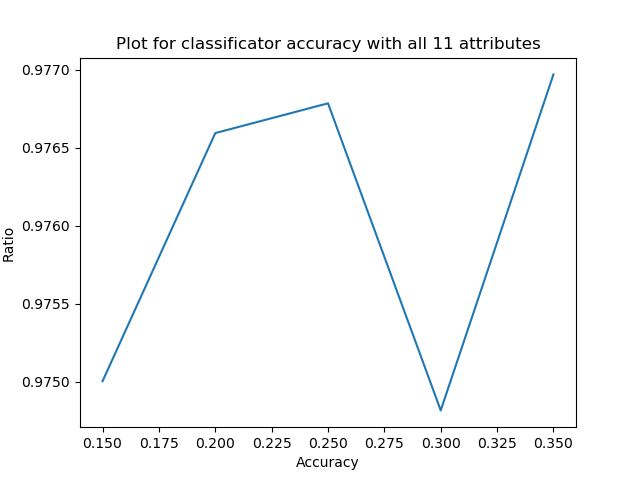
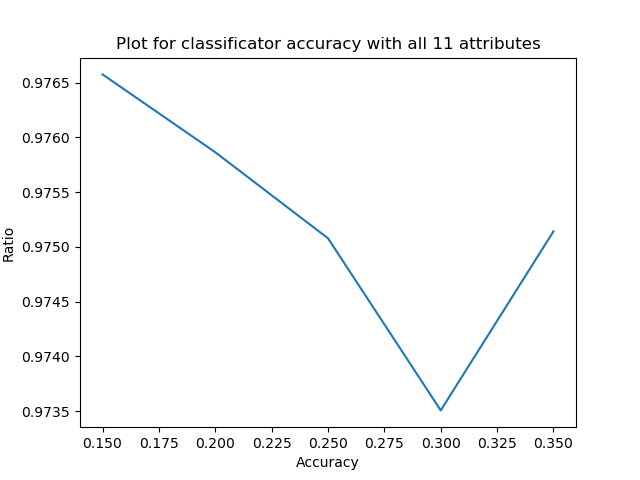
Added new analysis plots.

diff --git a/Skripte/ML/RF.py b/Skripte/ML/RF.py
@@ -1,4 +1,4 @@
-# Script to perform classification based on artificial neural networks.
+# Script to perform random forest classification.
 # Results will be prompted as plot.
 # Usage of external library matplotlib.
 # Usage of external library MySQL Connector.
@@ -8,17 +8,17 @@
 from sklearn import metrics
 from sklearn import preprocessing
 from sklearn.model_selection import train_test_split
-from sklearn.neural_network import MLPClassifier
-from sklearn.preprocessing import StandardScaler
+from sklearn.ensemble import RandomForestClassifier
 import matplotlib.pyplot as plt
 import mysql.connector
+import numpy as np
 
 # Initialize connection to mysql database
 target_db = mysql.connector.connect(host = "localhost", user = "root", passwd = "*****", database = "dataset")
 mycursor = target_db.cursor()
 
 # Set dataset source
-source = "file"
+source = "feat"
 
 # SQL query to be executed
 query1 = "SELECT * FROM dataset." + source + "_final"
@@ -61,13 +61,9 @@ scores_list = []
 # Perform classification for each ratio
 for ratio in ratios:
 	X_train, X_test, Y_train, Y_test = train_test_split(features, labels_encoded, test_size = ratio)
-	scaler = StandardScaler()
-	scaler.fit(X_train)
-	X_train = scaler.transform(X_train)
-	X_test = scaler.transform(X_test)
-	model = MLPClassifier(hidden_layer_sizes = (13, 13, 13), max_iter = 500, random_state = 0)
+	model = RandomForestClassifier(n_estimators = 200, random_state = 0)	
 	model.fit(X_train, Y_train)
-	
+
 	# predicted = model.predict([[5,3,4,256,38,2,111,222,23,14,59]])
 	# print(predicted)
 
@@ -76,6 +72,7 @@ for ratio in ratios:
 	scores_list.append(metrics.accuracy_score(Y_test,y_pred))
 	print("Accuracy for ratio " + str(ratio) + ": " + str(score))
 
+# Plot accuracy results
 plt.plot(ratios,scores_list)
 plt.title("Plot for classificator accuracy with all 11 attributes")
 plt.xlabel("Accuracy")
